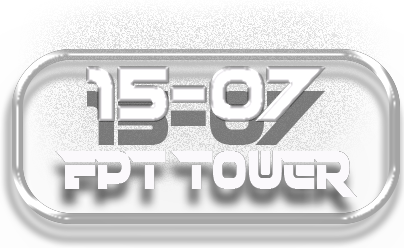
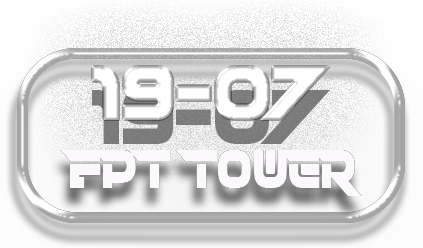
image change

diff --git a/src/components/PageComponents/TimeLocation/index.jsx b/src/components/PageComponents/TimeLocation/index.jsx
@@ -12,10 +12,10 @@ const TimeLocation = forwardRef(({children},ref) => {
         duration={1}
       >
         <div className="uppercase font-semibold pb-4 text-[24px]">
-          Thời gian và Địa điểm:{" "}
+          Thời gian và Địa điểm:
         </div>
         <div className="uppercase pb-1 text-[16px]">
-          8h00 - 19h00 - 15/07/2023
+          8h00 - 19h00 - 19/07/2023
         </div>
         <div className="uppercase text-[16px]">
           Tòa nhà FPT Tower, Số 10 Phạm Văn Bạch, Cầu Giấy, Hà Nội
